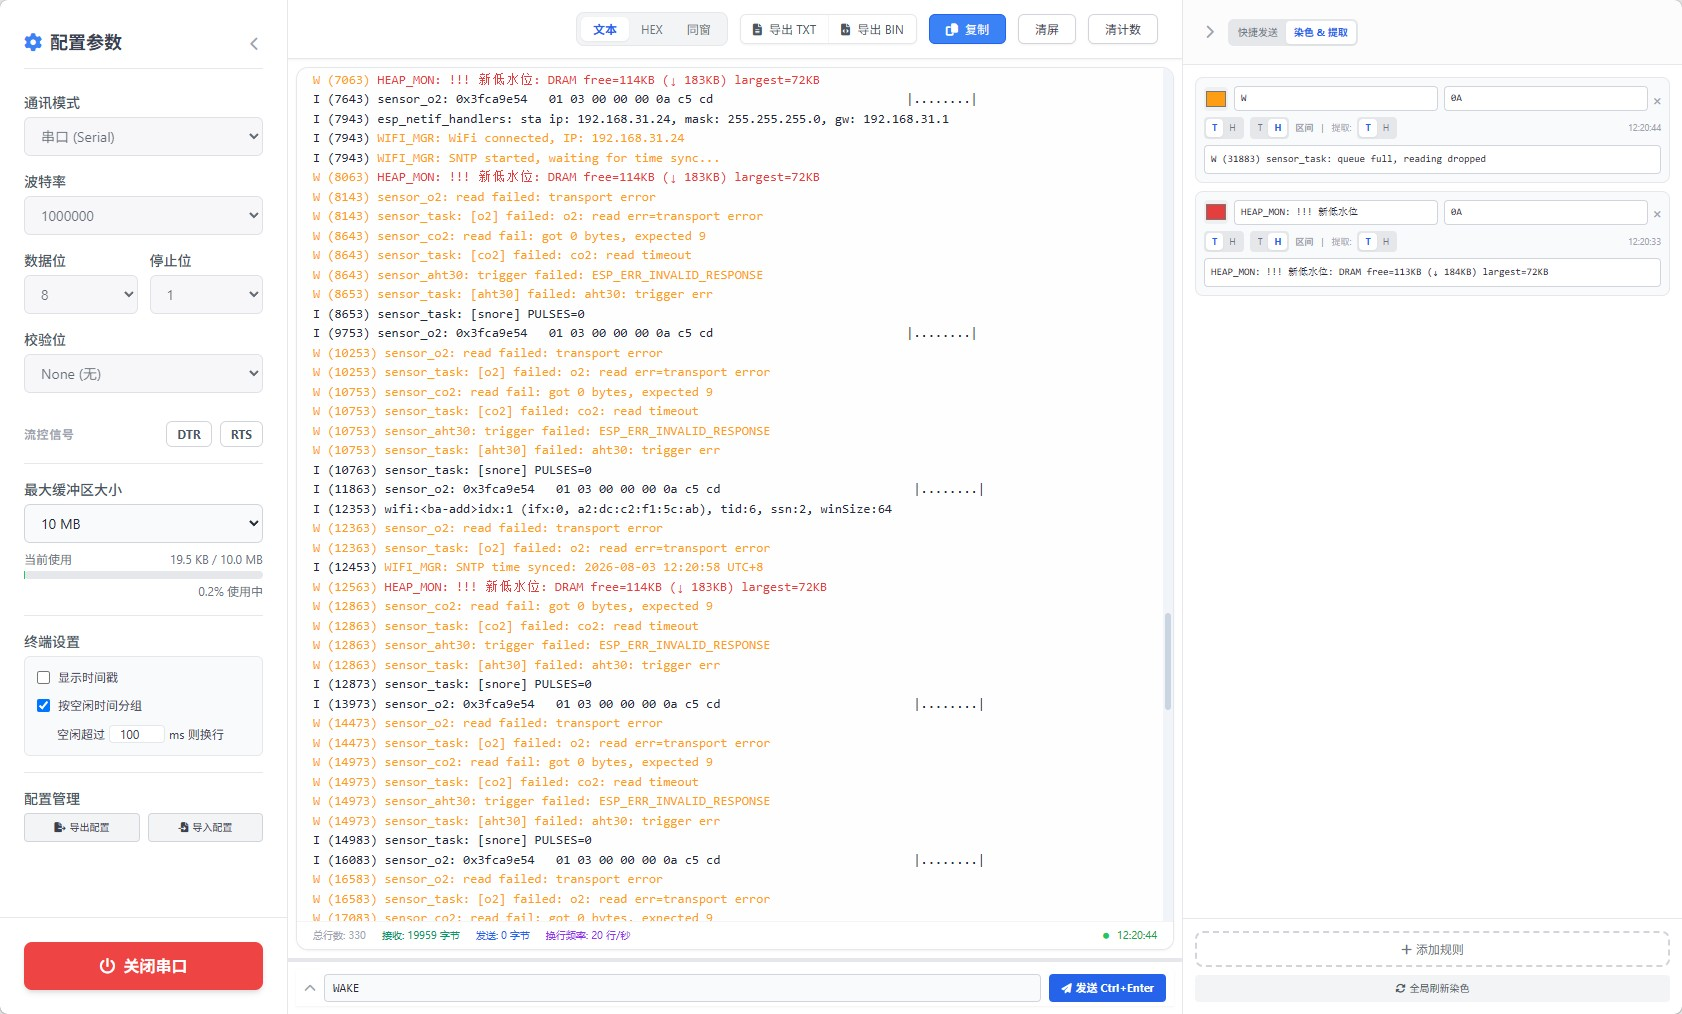
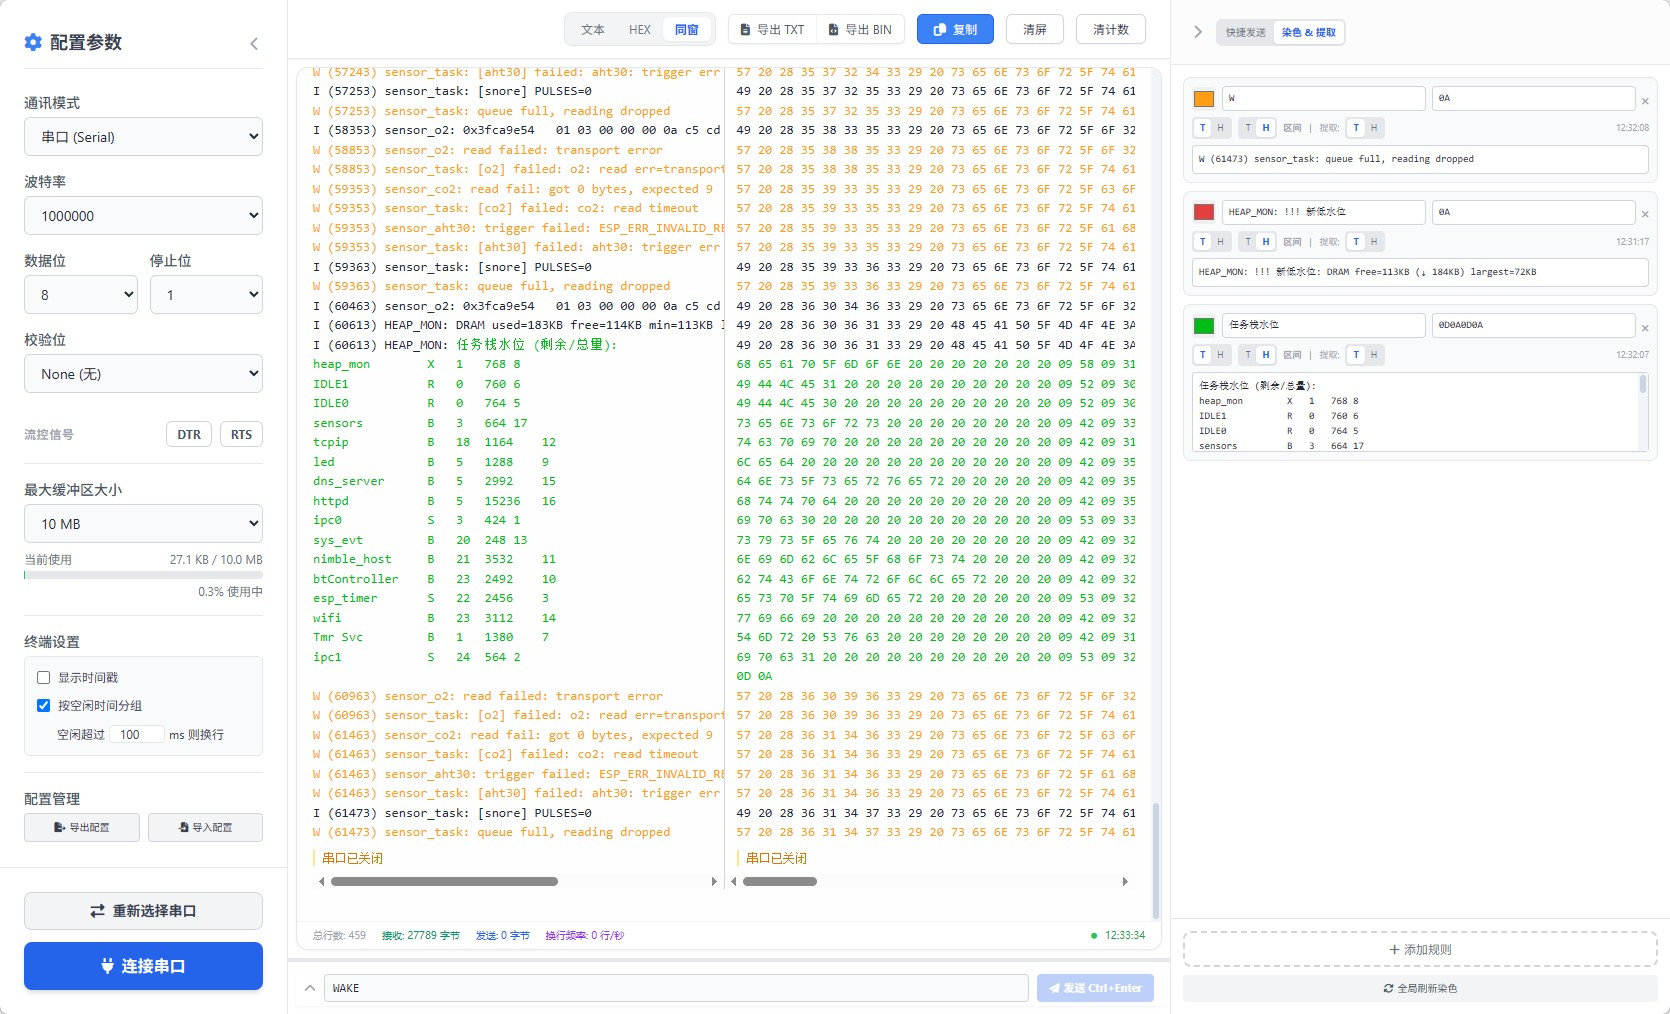
feat: 染色支持跨条目匹配，提取扫描窗口扩大为5KB
- 染色从逐条日志匹配改为拼接全流统一匹配后再按日志切回，
  横跨日志边界的区间/关键词也能正确着色
- 提取扫描窗口从1KB扩大到5KB
- README 补充快捷键说明，更新界面截图

diff --git a/components/Terminal.tsx b/components/Terminal.tsx
@@ -162,12 +162,47 @@ const Terminal: React.FC<TerminalProps> = ({
   totalLogCount, hasMoreChunks = false, hiddenChunksCount = 0, onLoadMore,
   rules = [], colorVersion = 0
 }) => {
-  // 染色缓存
+  // 染色缓存（跨条目：拼接所有日志文本后统一匹配，再按每条日志切回）
   const coloredLogs = useMemo(() => {
-    return logs.map(log => ({
-      log,
-      segments: rules.length > 0 ? highlightText(log.text, log.data, rules) : [{ text: log.text } as ColorSegment]
-    }));
+    if (rules.length === 0) {
+      return logs.map(log => ({ log, segments: [{ text: log.text } as ColorSegment] }));
+    }
+
+    const texts = logs.map(l => l.text);
+    const joined = texts.join('');
+    const joinedSegments = highlightText(joined, new Uint8Array(), rules);
+
+    // 记录每个片段在 joined 中的 [start, end)
+    const segRanges: { start: number; end: number; seg: ColorSegment }[] = [];
+    let p = 0;
+    for (const seg of joinedSegments) {
+      segRanges.push({ start: p, end: p + seg.text.length, seg });
+      p += seg.text.length;
+    }
+
+    // 按每条日志切回，片段跨日志边界时自动拆分
+    const result: { log: LogEntry; segments: ColorSegment[] }[] = [];
+    let logStart = 0;
+    let si = 0;
+    for (const log of logs) {
+      const logEnd = logStart + log.text.length;
+      const segs: ColorSegment[] = [];
+      if (log.text.length > 0) {
+        while (si < segRanges.length && segRanges[si].start < logEnd) {
+          const r = segRanges[si];
+          const s = Math.max(r.start, logStart);
+          const e = Math.min(r.end, logEnd);
+          if (s < e) {
+            segs.push({ text: r.seg.text.slice(s - r.start, e - r.start), color: r.seg.color });
+          }
+          if (r.end <= logEnd) si++;
+          else break; // 该片段跨越到下一个日志，保留 si 供下一条继续切
+        }
+      }
+      result.push({ log, segments: segs });
+      logStart = logEnd;
+    }
+    return result;
   }, [logs, rules, colorVersion]);
   const scrollContainerRef = useRef<HTMLDivElement>(null);
   const sentinelRef = useRef<HTMLDivElement>(null);

diff --git a/components/RuleList.tsx b/components/RuleList.tsx
@@ -95,7 +95,8 @@ const RuleList: React.FC<RuleListProps> = ({ rules, onUpdate, logs, onRefreshAll
     }
 
     const full = parts.join('');
-    const trimAmount = full.length > 1024 ? full.length - 1024 : 0;
+    const SCAN_WINDOW = 5 * 1024; // 只扫描最近 5KB
+    const trimAmount = full.length > SCAN_WINDOW ? full.length - SCAN_WINDOW : 0;
     const text = trimAmount > 0 ? full.slice(trimAmount) : full;
 
     const getTimestamp = (posInTrimmed: number): Date | null => {

diff --git a/README.md b/README.md
@@ -23,6 +23,14 @@
 - **收发**：定时发送、文件发送（RAW / YModem）、快捷发送列表
 - **管理**：缓冲区保护、导出 TXT/BIN、一键复制、配置导入导出、清屏
 
+### ⌨ 快捷键
+- `Tab` — 切换显示模式（文本 / HEX / 同窗）
+- `p` — 连接 / 断开
+- `c` — 清屏
+- `Ctrl+Enter` / `Cmd+Enter` — 发送
+- `[` / `]` — 折叠/展开左右侧栏
+- `'` — 折叠/展开发送区
+
 ## 🛠 快速开始
 
 ```bash
